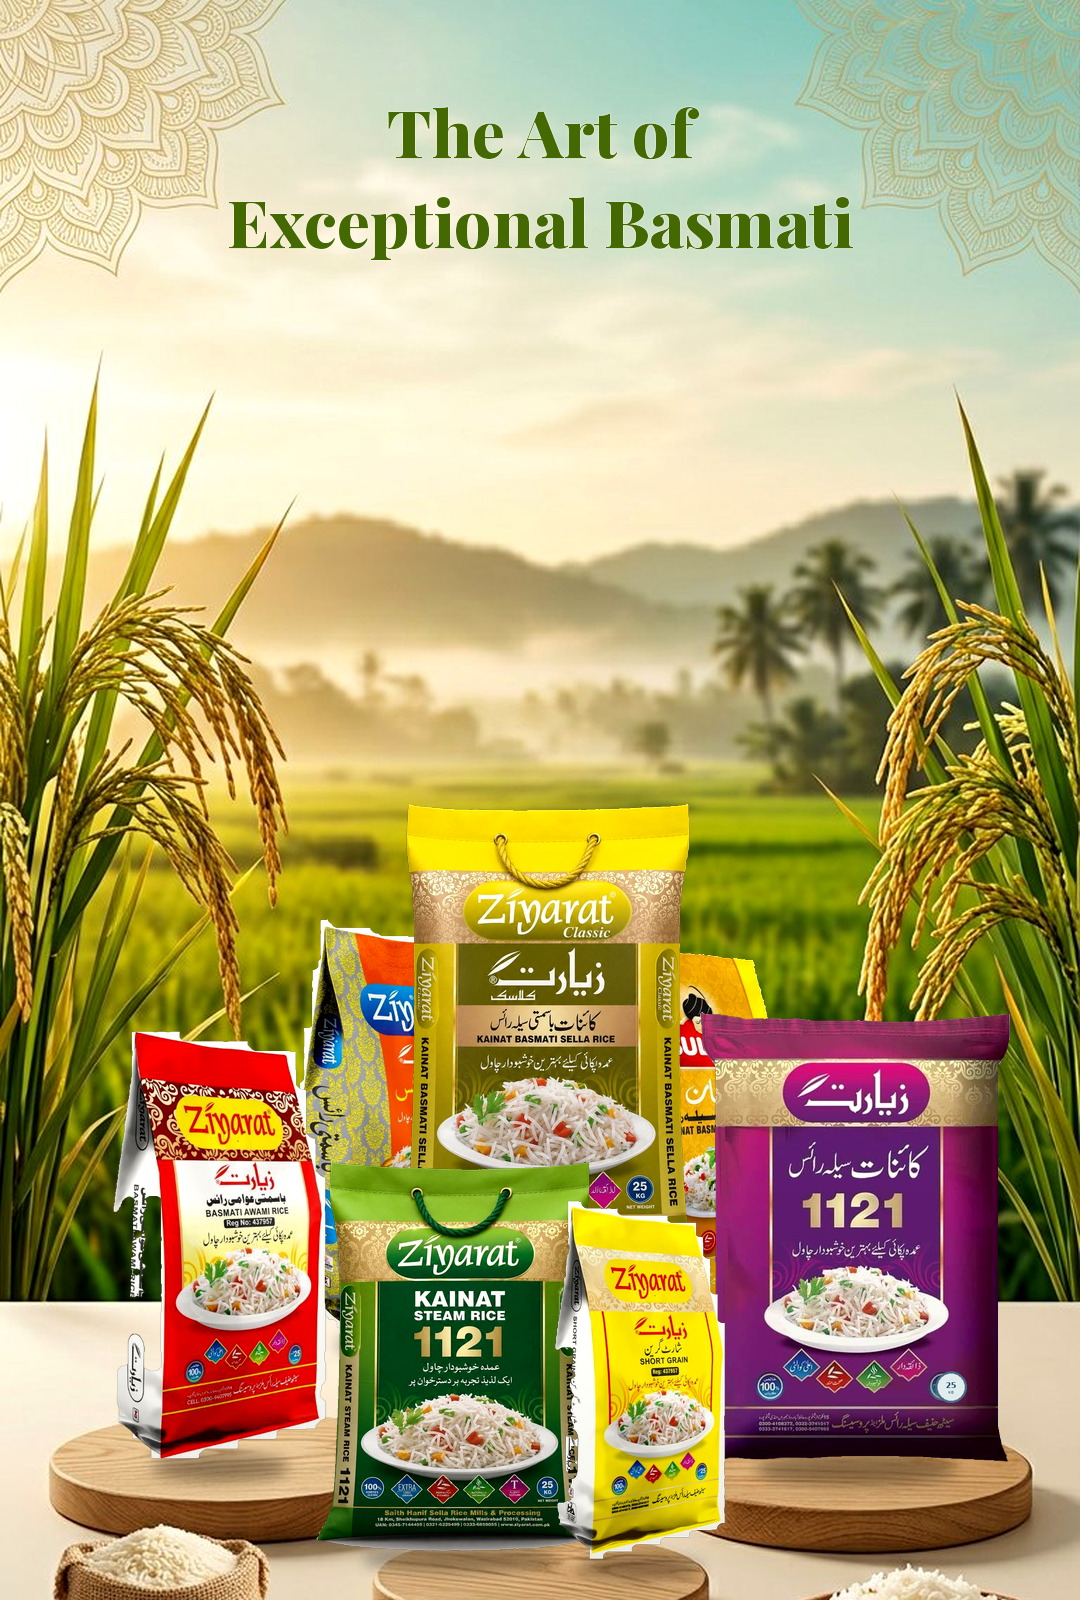
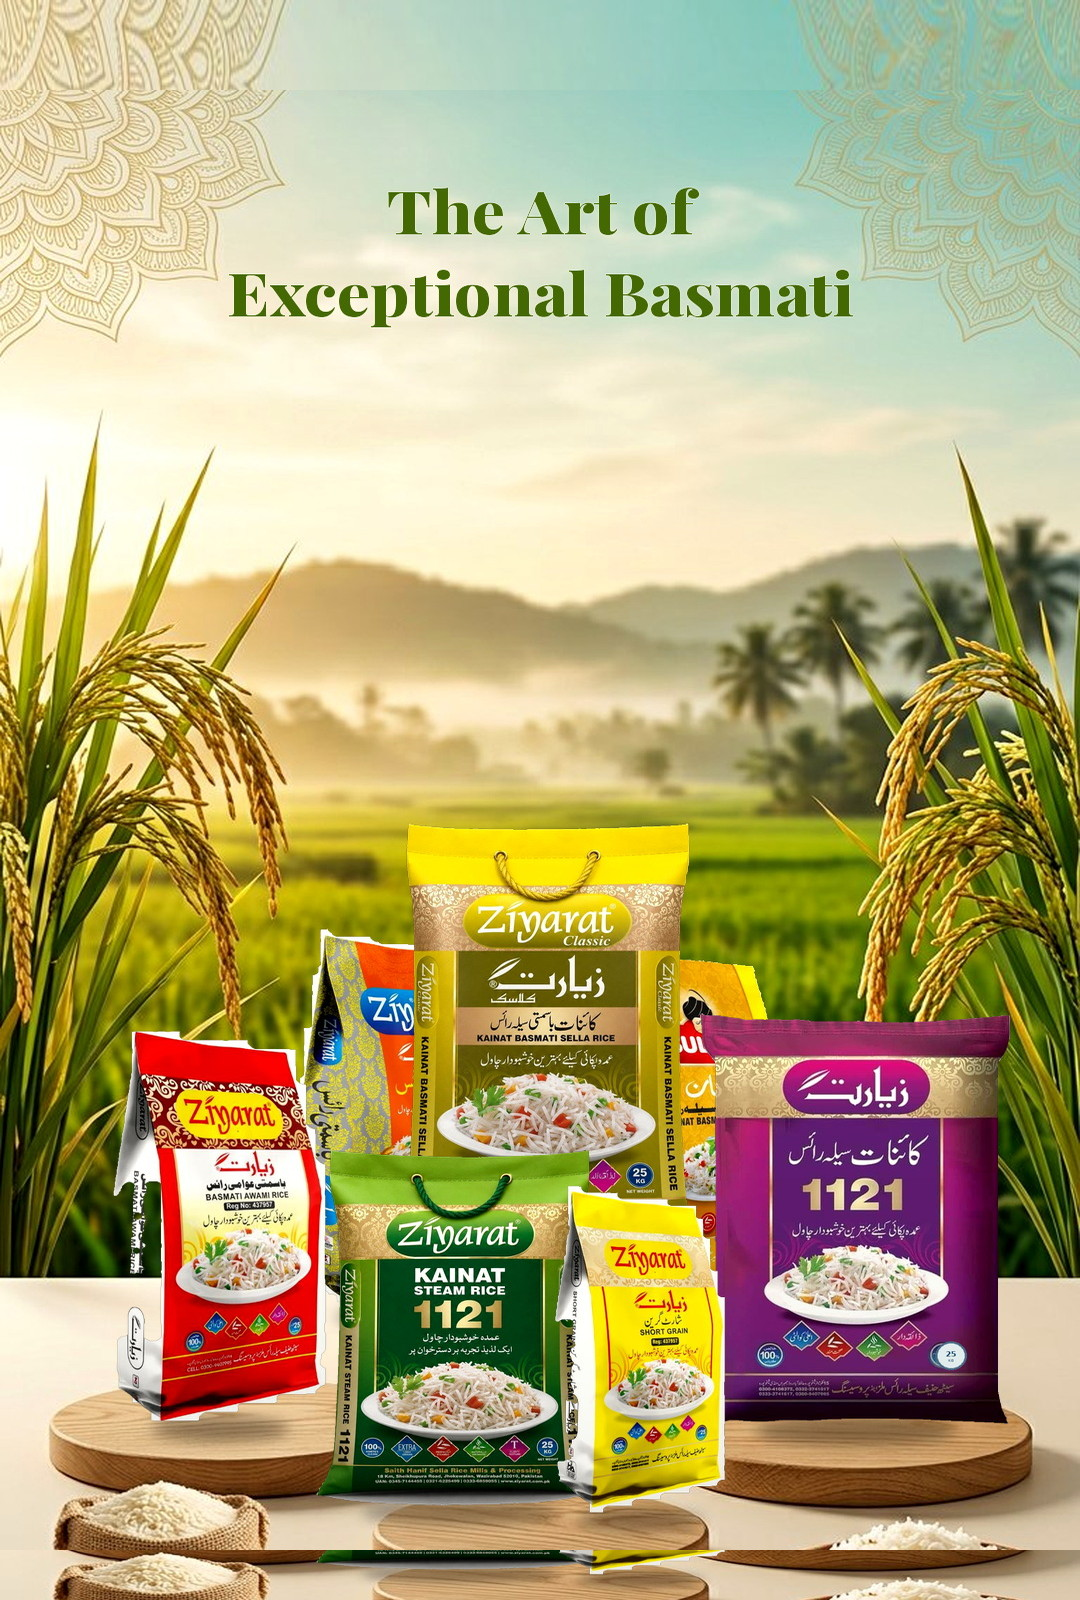
Responsive heroes: Range first, Pakistani Values, fields; products keep Top Class.
Rebuild mobile campaign stills so the person, type and packs stay in frame. Picture art-direction only where the desktop crop fails. Product cards stay object-fit contain.

diff --git a/index.html b/index.html
@@ -11,15 +11,15 @@
   <meta property="og:description" content="Rice mill in Jhabran, Sheikhupura, established 1975. Explore Ziyarat, Sultan and Wazir rice products and contact Saith Hanif Rice Mills for specifications, packaging and supply enquiries.">
   <meta property="og:type" content="website">
   <meta property="og:url" content="https://muhammadashir0.github.io/jhabran-rice-mill/">
-  <meta property="og:image" content="https://muhammadashir0.github.io/jhabran-rice-mill/assets/images/hero-slide-fields.jpg">
+  <meta property="og:image" content="https://muhammadashir0.github.io/jhabran-rice-mill/assets/images/hero-basmati-range.jpg">
   <meta name="theme-color" content="#0B241C">
-  <link rel="preload" as="image" href="assets/images/hero-slide-fields.jpg">
+  <link rel="preload" as="image" href="assets/images/hero-basmati-range.jpg?v=2">
   <link rel="icon" href="assets/icons/mark.svg" type="image/svg+xml">
   <link rel="preconnect" href="https://fonts.googleapis.com">
   <link rel="preconnect" href="https://fonts.gstatic.com" crossorigin>
   <link href="https://fonts.googleapis.com/css2?family=Inter:wght@400;500;600;700&family=Playfair+Display:ital,wght@0,400;0,500;0,600;0,700;1,400;1,500;1,600&family=Noto+Nastaliq+Urdu:wght@400;500;600;700&display=swap" rel="stylesheet">
-  <link rel="stylesheet" href="css/style.css?v=40">
-  <link rel="stylesheet" href="css/home.css?v=43">
+  <link rel="stylesheet" href="css/style.css?v=41">
+  <link rel="stylesheet" href="css/home.css?v=44">
 <script type="application/ld+json">
   {"@context":"https://schema.org","@type":"Organization","name":"Saith Hanif Rice Mills","url":"https://muhammadashir0.github.io/jhabran-rice-mill/","foundingDate":"1975","email":"saithhanifsailaricemills@gmail.com","telephone":"+923133332101","address":{"@type":"PostalAddress","streetAddress":"Jandiala Road, Jhabran","addressLocality":"Sheikhupura","addressRegion":"Punjab","addressCountry":"PK"},"brand":[{"@type":"Brand","name":"Ziyarat"},{"@type":"Brand","name":"Sultan"},{"@type":"Brand","name":"Wazir"}]}
   </script>
@@ -57,19 +57,16 @@
   </header>
   <main id="content">
 
-    <section class="hero hero-film homepage-banner" data-hero>
+    <section class="hero hero-film homepage-banner is-campaign" data-hero>
       <div class="hero-slides banner" data-slides>
 
-        <article class="slide is-on">
+        <article class="slide is-on slide-campaign">
           <picture>
-            <source media="(max-width: 720px)" srcset="assets/images/hero-slide-fields-m.jpg">
-            <img src="assets/images/hero-slide-fields.jpg" alt="Sunrise over rice fields in Punjab, Pakistan" width="1920" height="1071" fetchpriority="high" decoding="async">
+            <source media="(max-width: 720px)" srcset="assets/images/hero-basmati-range-m.jpg?v=2">
+            <img src="assets/images/hero-basmati-range.jpg?v=2" alt="The Art of Exceptional Basmati — Ziyarat and Sultan rice from Saith Hanif Rice Mills" width="1920" height="864" fetchpriority="high" decoding="async">
           </picture>
           <div class="hero-shade"></div>
           <div class="hero-content hero-center">
-            <p class="kicker">Pakistan · Est. 1975</p>
-            <h1>From Pakistan’s rice fields<br><em>to the world’s tables.</em></h1>
-            <p class="lede">Ziyarat · Sultan · Wazir — milled in Jhabran, Sheikhupura.</p>
             <div class="btn-row hero-actions">
               <a class="btn btn-gold" href="products.html">Explore our rice</a>
               <a class="btn btn-ghost" href="#trade">Become a business partner</a>
@@ -79,8 +76,8 @@
 
         <article class="slide slide-campaign">
           <picture>
-            <source media="(max-width: 720px)" srcset="assets/images/hero-slide-packs-m.jpg?v=9">
-            <img src="assets/images/hero-slide-packs.jpg?v=9" alt="Saith Hanif Rice Mills — Let's Share The Taste of Pakistani Values" width="1920" height="1080" loading="lazy" decoding="async">
+            <source media="(max-width: 720px)" srcset="assets/images/hero-slide-packs-m.jpg?v=10">
+            <img src="assets/images/hero-slide-packs.jpg?v=10" alt="Let's Share The Taste of Pakistani Values — Ziyarat rice from Saith Hanif Rice Mills" width="1920" height="1080" loading="lazy" decoding="async">
           </picture>
           <div class="hero-shade"></div>
           <div class="hero-content hero-center">
@@ -93,16 +90,16 @@
 
         <article class="slide">
           <picture>
-            <source media="(max-width: 720px)" srcset="assets/images/hero-slide-export-m.jpg">
-            <img src="assets/images/hero-slide-export.jpg" alt="Rice sacks prepared for dispatch at the mill warehouse" loading="lazy" decoding="async">
+            <source media="(max-width: 720px)" srcset="assets/images/hero-slide-fields-m.jpg">
+            <img src="assets/images/hero-slide-fields.jpg" alt="Sunrise over rice fields in Punjab, Pakistan" width="1920" height="1071" loading="lazy" decoding="async">
           </picture>
           <div class="hero-shade"></div>
           <div class="hero-content hero-center">
-            <p class="kicker">Trade</p>
-            <h2>Rooted in Pakistan.<br><em>Ready for global trade.</em></h2>
-            <p class="lede">Variety, packaging, quantity, port.</p>
+            <p class="kicker">Pakistan · Est. 1975</p>
+            <h2>From Pakistan’s rice fields<br><em>to the world’s tables.</em></h2>
+            <p class="lede">Ziyarat · Sultan · Wazir — milled in Jhabran, Sheikhupura.</p>
             <div class="btn-row hero-actions">
-              <a class="btn btn-gold" href="#trade">Discuss your requirements</a>
+              <a class="btn btn-gold" href="#trade">Become a business partner</a>
               <a class="btn btn-ghost" href="contact.html">Contact our mill</a>
             </div>
           </div>

diff --git a/products.html b/products.html
@@ -17,8 +17,8 @@
   <link rel="preconnect" href="https://fonts.googleapis.com">
   <link rel="preconnect" href="https://fonts.gstatic.com" crossorigin>
   <link href="https://fonts.googleapis.com/css2?family=Inter:wght@400;500;600;700&family=Playfair+Display:ital,wght@0,400;0,500;0,600;0,700;1,400;1,500;1,600&family=Noto+Nastaliq+Urdu:wght@400;500;600;700&display=swap" rel="stylesheet">
-  <link rel="stylesheet" href="css/style.css?v=40">
-  <link rel="stylesheet" href="css/home.css?v=43">
+  <link rel="stylesheet" href="css/style.css?v=41">
+  <link rel="stylesheet" href="css/home.css?v=44">
 </head>
 <body>
   <div class="preloader" aria-hidden="true"><img src="assets/icons/mark.svg" alt="Saith Hanif Rice Mills"></div>
@@ -57,12 +57,12 @@
     <section class="hero page-hero products-campaign">
       <div class="hero-media">
         <picture>
-          <source media="(max-width: 720px)" srcset="assets/images/hero-basmati-range-m.jpg?v=1">
-          <img src="assets/images/hero-basmati-range.jpg?v=1" alt="The Art of Exceptional Basmati — Ziyarat, Sultan and Wazir rice from Saith Hanif Rice Mills" width="1920" height="864" fetchpriority="high" decoding="async">
+          <source media="(max-width: 720px)" srcset="assets/images/hero-products-campaign-m.jpg?v=6">
+          <img src="assets/images/hero-products-campaign.jpg?v=6" alt="Choose only top class — Ziyarat rice from Saith Hanif Rice Mills" width="1920" height="1080" fetchpriority="high" decoding="async">
         </picture>
       </div>
       <div class="hero-content">
-        <h1 class="visually-hidden">The Art of Exceptional Basmati — rice products from Saith Hanif Rice Mills</h1>
+        <h1 class="visually-hidden">Choose only top class — rice products from Saith Hanif Rice Mills</h1>
       </div>
     </section>
     <section class="section" style="padding-bottom:12px">

diff --git a/leadership.html b/leadership.html
@@ -17,8 +17,8 @@
   <link rel="preconnect" href="https://fonts.googleapis.com">
   <link rel="preconnect" href="https://fonts.gstatic.com" crossorigin>
   <link href="https://fonts.googleapis.com/css2?family=Inter:wght@400;500;600;700&family=Playfair+Display:ital,wght@0,400;0,500;0,600;0,700;1,400;1,500;1,600&family=Noto+Nastaliq+Urdu:wght@400;500;600;700&display=swap" rel="stylesheet">
-  <link rel="stylesheet" href="css/style.css?v=40">
-  <link rel="stylesheet" href="css/home.css?v=43">
+  <link rel="stylesheet" href="css/style.css?v=41">
+  <link rel="stylesheet" href="css/home.css?v=44">
   <script type="application/ld+json">
   {"@context":"https://schema.org","@type":"AboutPage","name":"Leadership | Saith Hanif Rice Mills","description":"Leadership philosophy and founder’s legacy of Saith Hanif Rice Mills, established in 1975 in Jhabran, Sheikhupura.","about":{"@type":"Person","name":"Saith Hanif","jobTitle":"Founder","description":"Founded Saith Hanif Rice Mills in 1975 in Jhabran, Sheikhupura, Punjab, Pakistan."}}
   </script>
@@ -60,7 +60,7 @@
       <div class="hero-media">
         <picture>
           <source media="(max-width: 720px)" srcset="assets/images/hero-slide-fields-m.jpg">
-          <img src="assets/images/hero-slide-fields.jpg" alt="Sunrise over rice fields in Punjab, Pakistan" fetchpriority="high">
+          <img src="assets/images/hero-slide-fields.jpg" alt="Sunrise over rice fields in Punjab, Pakistan" width="1920" height="1071" fetchpriority="high" decoding="async">
         </picture>
       </div>
       <div class="hero-shade"></div>

diff --git a/export.html b/export.html
@@ -17,8 +17,8 @@
   <link rel="preconnect" href="https://fonts.googleapis.com">
   <link rel="preconnect" href="https://fonts.gstatic.com" crossorigin>
   <link href="https://fonts.googleapis.com/css2?family=Inter:wght@400;500;600;700&family=Playfair+Display:ital,wght@0,400;0,500;0,600;0,700;1,400;1,500;1,600&family=Noto+Nastaliq+Urdu:wght@400;500;600;700&display=swap" rel="stylesheet">
-  <link rel="stylesheet" href="css/style.css?v=40">
-  <link rel="stylesheet" href="css/home.css?v=43">
+  <link rel="stylesheet" href="css/style.css?v=41">
+  <link rel="stylesheet" href="css/home.css?v=44">
 </head>
 <body class="home">
   <a class="skip" href="#content">Skip to content</a>
@@ -57,7 +57,7 @@
       <div class="hero-media">
         <picture>
           <source media="(max-width: 720px)" srcset="assets/images/hero-slide-export-m.jpg">
-          <img src="assets/images/hero-slide-export.jpg" alt="Rice prepared for dispatch from the mill" fetchpriority="high">
+          <img src="assets/images/hero-slide-export.jpg" alt="Rice prepared for dispatch from the mill" width="1920" height="1071" fetchpriority="high" decoding="async">
         </picture>
       </div>
       <div class="hero-shade"></div>

diff --git a/about.html b/about.html
@@ -17,8 +17,8 @@
   <link rel="preconnect" href="https://fonts.googleapis.com">
   <link rel="preconnect" href="https://fonts.gstatic.com" crossorigin>
   <link href="https://fonts.googleapis.com/css2?family=Inter:wght@400;500;600;700&family=Playfair+Display:ital,wght@0,400;0,500;0,600;0,700;1,400;1,500;1,600&family=Noto+Nastaliq+Urdu:wght@400;500;600;700&display=swap" rel="stylesheet">
-  <link rel="stylesheet" href="css/style.css?v=40">
-  <link rel="stylesheet" href="css/home.css?v=43">
+  <link rel="stylesheet" href="css/style.css?v=41">
+  <link rel="stylesheet" href="css/home.css?v=44">
 </head>
 <body class="home about-page">
   <a class="skip" href="#content">Skip to content</a>
@@ -57,7 +57,7 @@
       <div class="hero-media">
         <picture>
           <source media="(max-width: 720px)" srcset="assets/images/hero-slide-fields-m.jpg">
-          <img src="assets/images/hero-slide-fields.jpg" alt="Sunrise over rice fields in Punjab, Pakistan">
+          <img src="assets/images/hero-slide-fields.jpg" alt="Sunrise over rice fields in Punjab, Pakistan" width="1920" height="1071" fetchpriority="high" decoding="async">
         </picture>
       </div>
       <div class="hero-shade"></div>

diff --git a/product-sella.html b/product-sella.html
@@ -17,8 +17,8 @@
   <link rel="preconnect" href="https://fonts.googleapis.com">
   <link rel="preconnect" href="https://fonts.gstatic.com" crossorigin>
   <link href="https://fonts.googleapis.com/css2?family=Inter:wght@400;500;600;700&family=Playfair+Display:ital,wght@0,400;0,500;0,600;0,700;1,400;1,500;1,600&family=Noto+Nastaliq+Urdu:wght@400;500;600;700&display=swap" rel="stylesheet">
-  <link rel="stylesheet" href="css/style.css?v=40">
-  <link rel="stylesheet" href="css/home.css?v=43">
+  <link rel="stylesheet" href="css/style.css?v=41">
+  <link rel="stylesheet" href="css/home.css?v=44">
   <script type="application/ld+json">
   {"@context": "https://schema.org", "@type": "Product", "name": "Kainat Sella Rice 1121", "brand": {"@type": "Brand", "name": "Ziyarat"}, "description": "Ziyarat Kainat Sella 1121 — extra-long parboiled rice from Saith Hanif Rice Mills. Suitable where cooked rice needs to hold. Pack sizes 5 / 10 / 20 / 25 kg.", "image": "https://muhammadashir0.github.io/jhabran-rice-mill/assets/products/studio-sella-1121.jpg?v=17", "manufacturer": {"@type": "Organization", "name": "Saith Hanif Rice Mills", "url": "https://muhammadashir0.github.io/jhabran-rice-mill/"}}
   </script>

diff --git a/product-steam.html b/product-steam.html
@@ -17,8 +17,8 @@
   <link rel="preconnect" href="https://fonts.googleapis.com">
   <link rel="preconnect" href="https://fonts.gstatic.com" crossorigin>
   <link href="https://fonts.googleapis.com/css2?family=Inter:wght@400;500;600;700&family=Playfair+Display:ital,wght@0,400;0,500;0,600;0,700;1,400;1,500;1,600&family=Noto+Nastaliq+Urdu:wght@400;500;600;700&display=swap" rel="stylesheet">
-  <link rel="stylesheet" href="css/style.css?v=40">
-  <link rel="stylesheet" href="css/home.css?v=43">
+  <link rel="stylesheet" href="css/style.css?v=41">
+  <link rel="stylesheet" href="css/home.css?v=44">
   <script type="application/ld+json">
   {"@context": "https://schema.org", "@type": "Product", "name": "Kainat Steam Rice 1121", "brand": {"@type": "Brand", "name": "Ziyarat"}, "description": "Ziyarat Kainat Steam 1121 — extra-long steamed rice from Saith Hanif Rice Mills in Sheikhupura. Pack sizes 5 / 10 / 20 / 25 kg. Enquire for specifications.", "image": "https://muhammadashir0.github.io/jhabran-rice-mill/assets/products/studio-steam-1121.jpg?v=17", "manufacturer": {"@type": "Organization", "name": "Saith Hanif Rice Mills", "url": "https://muhammadashir0.github.io/jhabran-rice-mill/"}}
   </script>

diff --git a/product-classic.html b/product-classic.html
@@ -17,8 +17,8 @@
   <link rel="preconnect" href="https://fonts.googleapis.com">
   <link rel="preconnect" href="https://fonts.gstatic.com" crossorigin>
   <link href="https://fonts.googleapis.com/css2?family=Inter:wght@400;500;600;700&family=Playfair+Display:ital,wght@0,400;0,500;0,600;0,700;1,400;1,500;1,600&family=Noto+Nastaliq+Urdu:wght@400;500;600;700&display=swap" rel="stylesheet">
-  <link rel="stylesheet" href="css/style.css?v=40">
-  <link rel="stylesheet" href="css/home.css?v=43">
+  <link rel="stylesheet" href="css/style.css?v=41">
+  <link rel="stylesheet" href="css/home.css?v=44">
   <script type="application/ld+json">
   {"@context": "https://schema.org", "@type": "Product", "name": "Classic Kainat Basmati Sella", "brand": {"@type": "Brand", "name": "Ziyarat"}, "description": "Ziyarat Classic Kainat Basmati Sella — extra-long parboiled basmati from Saith Hanif Rice Mills. Distinct from the purple 1121 sella sack.", "image": "https://muhammadashir0.github.io/jhabran-rice-mill/assets/products/studio-classic-sella.jpg?v=17", "manufacturer": {"@type": "Organization", "name": "Saith Hanif Rice Mills", "url": "https://muhammadashir0.github.io/jhabran-rice-mill/"}}
   </script>

diff --git a/product-sultan-sella.html b/product-sultan-sella.html
@@ -17,8 +17,8 @@
   <link rel="preconnect" href="https://fonts.googleapis.com">
   <link rel="preconnect" href="https://fonts.gstatic.com" crossorigin>
   <link href="https://fonts.googleapis.com/css2?family=Inter:wght@400;500;600;700&family=Playfair+Display:ital,wght@0,400;0,500;0,600;0,700;1,400;1,500;1,600&family=Noto+Nastaliq+Urdu:wght@400;500;600;700&display=swap" rel="stylesheet">
-  <link rel="stylesheet" href="css/style.css?v=40">
-  <link rel="stylesheet" href="css/home.css?v=43">
+  <link rel="stylesheet" href="css/style.css?v=41">
+  <link rel="stylesheet" href="css/home.css?v=44">
   <script type="application/ld+json">
   {"@context": "https://schema.org", "@type": "Product", "name": "Sultan Kainat Basmati Sella", "brand": {"@type": "Brand", "name": "Sultan"}, "description": "Sultan Kainat Basmati Sella from Saith Hanif Rice Mills — extra-long parboiled rice under the Sultan brand. Pack sizes 5 / 10 / 20 / 25 kg.", "image": "https://muhammadashir0.github.io/jhabran-rice-mill/assets/products/studio-sultan-sella.jpg?v=17", "manufacturer": {"@type": "Organization", "name": "Saith Hanif Rice Mills", "url": "https://muhammadashir0.github.io/jhabran-rice-mill/"}}
   </script>

diff --git a/contact.html b/contact.html
@@ -17,8 +17,8 @@
   <link rel="preconnect" href="https://fonts.googleapis.com">
   <link rel="preconnect" href="https://fonts.gstatic.com" crossorigin>
   <link href="https://fonts.googleapis.com/css2?family=Inter:wght@400;500;600;700&family=Playfair+Display:ital,wght@0,400;0,500;0,600;0,700;1,400;1,500;1,600&family=Noto+Nastaliq+Urdu:wght@400;500;600;700&display=swap" rel="stylesheet">
-  <link rel="stylesheet" href="css/style.css?v=40">
-  <link rel="stylesheet" href="css/home.css?v=43">
+  <link rel="stylesheet" href="css/style.css?v=41">
+  <link rel="stylesheet" href="css/home.css?v=44">
   <script type="application/ld+json">
   {
     "@context": "https://schema.org",
@@ -83,7 +83,7 @@
 
     <section class="hero page-hero contact-hero hero-film">
       <div class="hero-media">
-        <img src="assets/images/contact-banner.jpg" alt="Contact Saith Hanif Rice Mills in Jhabran" loading="lazy" decoding="async">
+        <img src="assets/images/contact-banner.jpg" alt="Contact Saith Hanif Rice Mills in Jhabran" width="1376" height="768" fetchpriority="high" decoding="async">
       </div>
       <div class="hero-shade"></div>
       <div class="hero-content hero-center">

diff --git a/product-classic-steam.html b/product-classic-steam.html
@@ -17,8 +17,8 @@
   <link rel="preconnect" href="https://fonts.googleapis.com">
   <link rel="preconnect" href="https://fonts.gstatic.com" crossorigin>
   <link href="https://fonts.googleapis.com/css2?family=Inter:wght@400;500;600;700&family=Playfair+Display:ital,wght@0,400;0,500;0,600;0,700;1,400;1,500;1,600&family=Noto+Nastaliq+Urdu:wght@400;500;600;700&display=swap" rel="stylesheet">
-  <link rel="stylesheet" href="css/style.css?v=40">
-  <link rel="stylesheet" href="css/home.css?v=43">
+  <link rel="stylesheet" href="css/style.css?v=41">
+  <link rel="stylesheet" href="css/home.css?v=44">
   <script type="application/ld+json">
   {"@context": "https://schema.org", "@type": "Product", "name": "Classic Kainat Basmati Steam", "brand": {"@type": "Brand", "name": "Ziyarat"}, "description": "Ziyarat Classic Kainat Basmati Steam — extra-long steamed basmati from Saith Hanif Rice Mills. Distinct from green Steam 1121.", "image": "https://muhammadashir0.github.io/jhabran-rice-mill/assets/products/studio-classic-steam.jpg?v=17", "manufacturer": {"@type": "Organization", "name": "Saith Hanif Rice Mills", "url": "https://muhammadashir0.github.io/jhabran-rice-mill/"}}
   </script>

diff --git a/product-wazir-steam.html b/product-wazir-steam.html
@@ -17,8 +17,8 @@
   <link rel="preconnect" href="https://fonts.googleapis.com">
   <link rel="preconnect" href="https://fonts.gstatic.com" crossorigin>
   <link href="https://fonts.googleapis.com/css2?family=Inter:wght@400;500;600;700&family=Playfair+Display:ital,wght@0,400;0,500;0,600;0,700;1,400;1,500;1,600&family=Noto+Nastaliq+Urdu:wght@400;500;600;700&display=swap" rel="stylesheet">
-  <link rel="stylesheet" href="css/style.css?v=40">
-  <link rel="stylesheet" href="css/home.css?v=43">
+  <link rel="stylesheet" href="css/style.css?v=41">
+  <link rel="stylesheet" href="css/home.css?v=44">
   <script type="application/ld+json">
   {"@context": "https://schema.org", "@type": "Product", "name": "Wazir Kainat Steam 1121", "brand": {"@type": "Brand", "name": "Wazir"}, "description": "Wazir Kainat Steam 1121 from Saith Hanif Rice Mills — extra-long steamed rice under the Wazir brand. Pack sizes 5 / 10 / 20 / 25 kg.", "image": "https://muhammadashir0.github.io/jhabran-rice-mill/assets/products/studio-wazir-steam.jpg?v=17", "manufacturer": {"@type": "Organization", "name": "Saith Hanif Rice Mills", "url": "https://muhammadashir0.github.io/jhabran-rice-mill/"}}
   </script>
